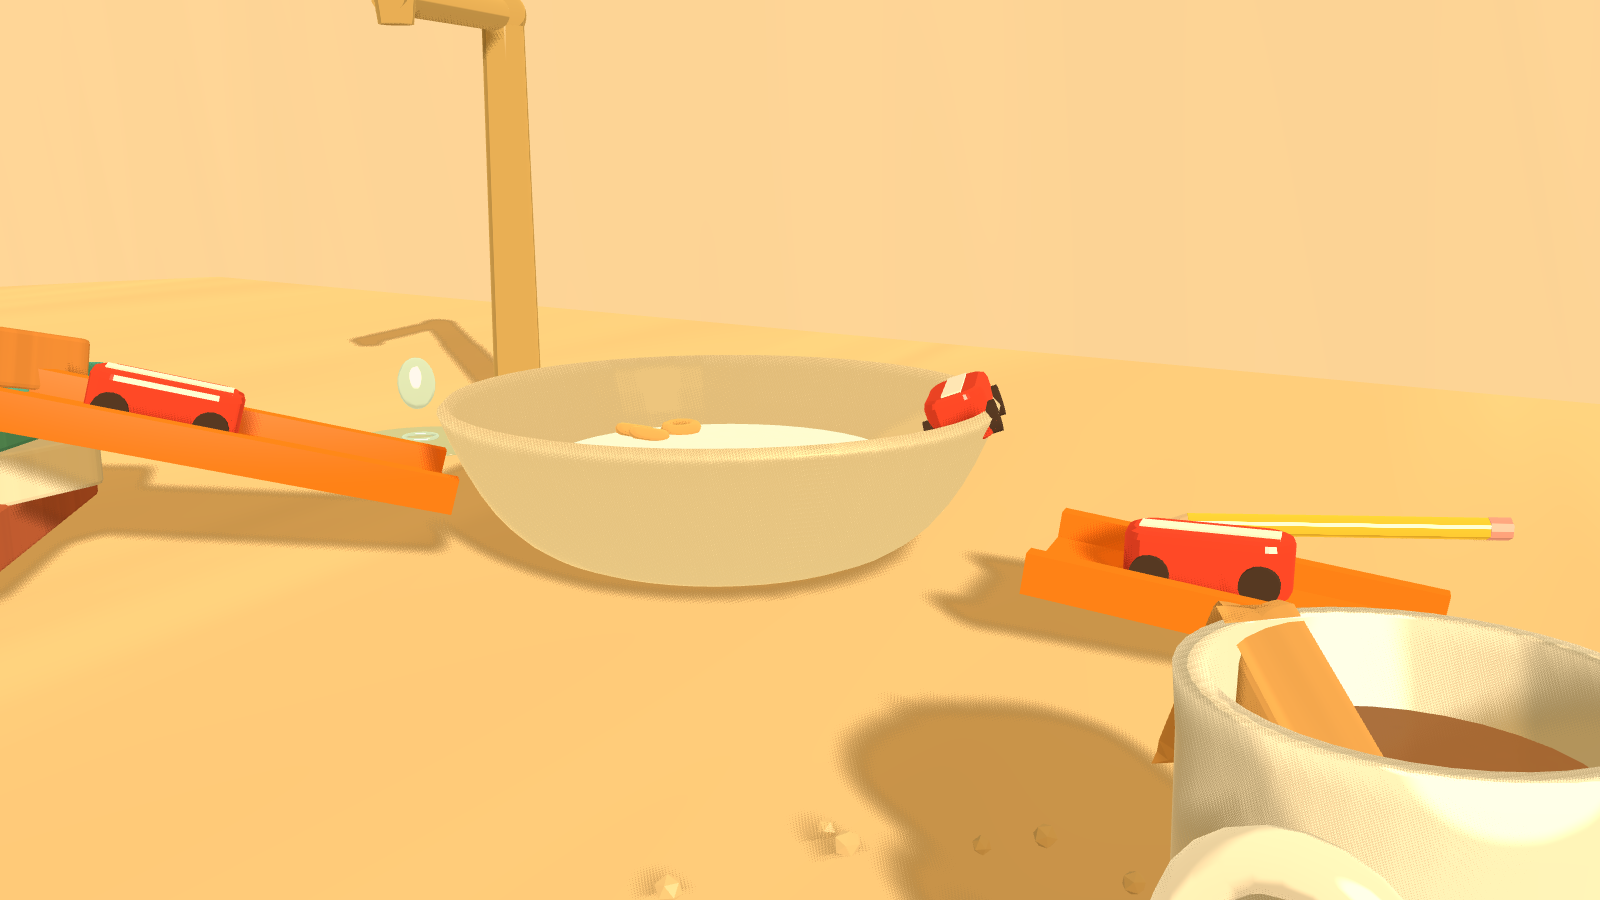
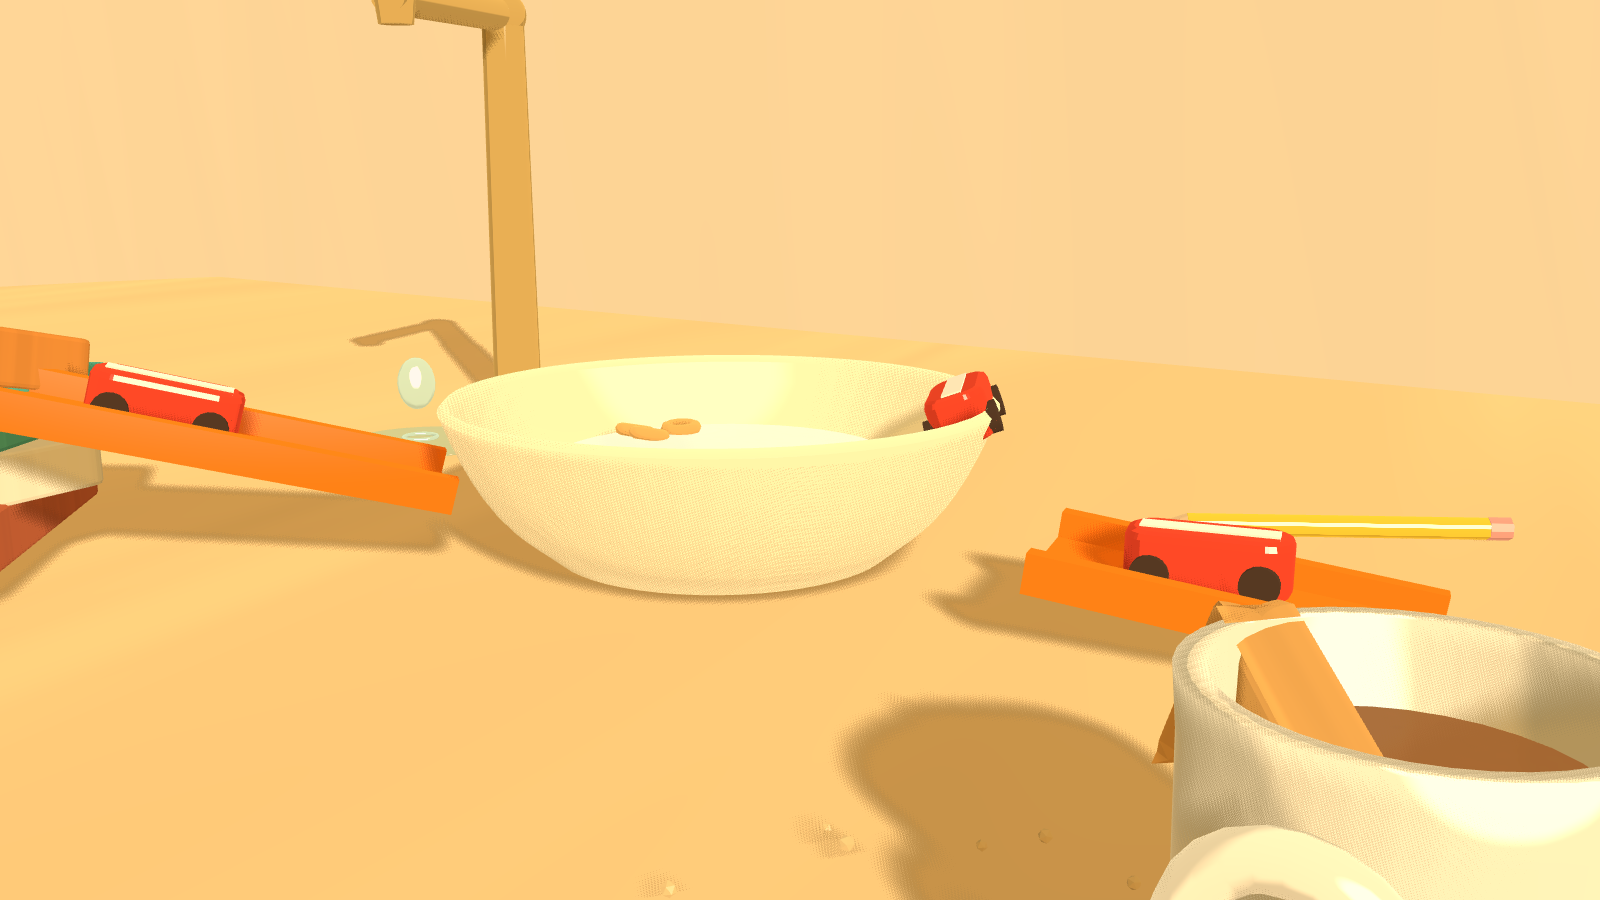
stage 1: environment artist B - grounded bowl, smaller crumbs, session note

Changed region(s): [[0.25, 0.3733, 0.625, 0.6844], [0.5, 0.9022, 0.5312, 0.9333]]

diff --git a/src/dev/scenes/kitchen-b.ts b/src/dev/scenes/kitchen-b.ts
@@ -7,7 +7,7 @@
 
 import * as THREE from 'three'
 import { ceramic, dieCastPaint, fabric, liquid, paintedWood, trackPlastic } from '../../render/materials.ts'
-import { bowlForm, toyBlock, trackChannel } from '../../render/geometry.ts'
+import { toyBlock, trackChannel } from '../../render/geometry.ts'
 import { GLOBAL_TOKENS, SET_TOKENS, darken, mixHex } from '../../render/tokens.ts'
 import { ToonMaterial } from '../../render/toon-material.ts'
 import { registerScene, type SceneEntry, type SceneFactory } from '../registry.ts'
@@ -266,7 +266,7 @@ function crumbs(): THREE.InstancedMesh {
     const r = 0.02 + rnd() * 0.075
     dummy.position.set(Math.cos(a) * r, 0.0022 + rnd() * 0.002, Math.sin(a) * r)
     dummy.rotation.set(rnd() * 3, rnd() * 3, rnd() * 3)
-    dummy.scale.setScalar(0.35 + rnd() * 0.5)
+    dummy.scale.setScalar(0.22 + rnd() * 0.3)
     dummy.updateMatrix()
     mesh.setMatrixAt(i, dummy.matrix)
   }
@@ -333,7 +333,25 @@ function kitchenScene(): SceneFactory {
       diffuseStrength: 1.15,
     })
     bowlMat.side = THREE.DoubleSide
-    const bowl = new THREE.Mesh(bowlForm(0.098, 0.054, 0.005), bowlMat)
+    // local bowl profile: the shared lathe's dome touches the floor only at
+    // its centre and reads as floating; add a flat foot ring at y = 0.001
+    const bowlPts: THREE.Vector2[] = [new THREE.Vector2(0.0001, 0.001), new THREE.Vector2(0.06, 0.001)]
+    {
+      const R = 0.098, H = 0.054, w = 0.005, n = 12
+      const footR = R * 0.26
+      for (let i = 5; i <= n; i++) {
+        const t = i / n
+        bowlPts.push(new THREE.Vector2(footR + (R - footR) * Math.sqrt(t), Math.max(H * t * (0.88 * t + 0.12), 0.001)))
+      }
+      bowlPts.push(new THREE.Vector2(R, H), new THREE.Vector2(R - w / 2, H + w / 2), new THREE.Vector2(R - w, H))
+      for (let i = n; i >= 0; i--) {
+        const t = i / n
+        bowlPts.push(new THREE.Vector2(Math.max((R - w) * Math.sqrt(t), 0.0001), H * 0.05 + (H - H * 0.05) * (0.85 * t * t + 0.15 * t)))
+      }
+    }
+    const bowlGeo = new THREE.LatheGeometry(bowlPts, 56)
+    bowlGeo.computeVertexNormals()
+    const bowl = new THREE.Mesh(bowlGeo, bowlMat)
     props(bowl)
     bowl.position.set(-0.035, 0, -0.045)
     vignette.add(bowl)

diff --git a/docs/vault/Sessions/2026-10-03 Stage 1 - kitchen tile B.md b/docs/vault/Sessions/2026-10-03 Stage 1 - kitchen tile B.md
@@ -1,0 +1,43 @@
+---
+tags: [session]
+livedocs: snapshot
+---
+# Stage 1 — kitchen tile B (Environment Artist B)
+
+## The story, in two sentences
+
+Sunday morning on the toy table: a kid built a track out of the good cereal bowl, three library books and the pencil that shims the ramp book — and parked a car mid-bank in the bowl's rim while the tap hangs, frozen, over its wet patch. Nobody is home; the toast is still in the mug, the milk is still in the bowl, and three cars are stopped wherever Sunday stopped them.
+
+## Palette, light, materials
+
+- **Palette** straight from `src/render/tokens.ts` kitchen tokens: gold dominant `#EFAF4B`, mint accent (one book cover, the folded cloth, the wet patch), orange track constant `#FF7A1A` as the reader's path books → bowl → mug.
+- **Light**: one low gold key (`GLOBAL_TOKENS.keyLight`, intensity 1.3) from camera-right, elevation ~28°, long shadows that fly left/back and climb the flat cream wall — the tap's L-shadow is a second drawing of the tap. The material fill is nudged ~30 % toward the mint accent so every shadow breathes cool-gold instead of grey; every `ToonMaterial` is told the key via `setKeyLight`, so dark bands tint toward gold.
+- **Materials** — exactly six of the seven classes, no new shaders: ceramic (bowl, mug), painted wood (counter, books, toast, pencil, floor), die-cast paint (brass tap, car bodies, pencil ferrule), track plastic (orange runs), fabric (cloth, tyres, cereal rings), liquid (milk, coffee, drip, wet patch, mug ring). Repeated props (crumbs, cereal rings) are `InstancedMesh`; the car factory is reused three times.
+- **Generators**: `toyBlock` and `trackChannel` from `src/render/geometry.ts`; the bowl is a local lathe (the shared `bowlForm` dome touches the floor at one point and read as floating — a flat foot ring at y ≈ 1 mm fixes grounding; also a local `trackRun(a, b)` places a channel along any segment by `lookAt`).
+
+## The one surprising detail
+
+The pencil. It is doing double duty: one end is the shim propping the ramp book — the kid's engineering — and its twin lies on the counter where the eye lands first. A toy track held up by school supplies is the whole premise in one object. (Runner-up detail: the tap's own shadow drawing the tap on the wall.)
+
+## Self-scored rubric (honest)
+
+| # | Line | Score | Why |
+|---|---|---|---|
+| 1 | Silhouette at 200 px | 2 | Bowl, book stack, track lines, mug-with-toast all read in the thumbnail establishing shot. |
+| 2 | Focal point | 2 | Hero lands on the bowl with the car on the bank; every rig points at it. |
+| 3 | Scale cues | 2 | Oversized tap and bowl, pencil, book spines, crumbs — four cues; no tilt-shift available in the harness. |
+| 4 | Color | 2 | Gold dominant, mint accent, orange constant; nothing fights (droplet is mint-adjacent — quiet). |
+| 5 | Light | 2 | One direction, long shadows that explain bowl, books and tap; the tap shadow doubles the form. |
+| 6 | Material | 1 | Every object is a named class, but the bowl interior still reads flat-ivory in hero rather than glazed, and the frozen drip is small. |
+| 7 | Story | 2 | Toast in the mug, mug ring, crumbs, pencil shim — someone lives here and played here. |
+| 8 | Nothing default | 2 | No stock look, shadows gold-tinted, flat wall (no gradient), no ambient mush. |
+| | **Total** | **13/16, no zero** | |
+
+## What I learned for the tile review
+
+The toon shader never flips normals on backfaces, so any DoubleSide lathe lights one side wrongly — sets that need bowl interiors should carry a grounded, front-side local profile (as done here) rather than the shared `bowlForm`. Worth a technical-artist ticket on a `flipNormals` option or a two-sided-aware shader.
+
+## Files
+
+- Scene: `src/dev/scenes/kitchen-b.ts` (registered as `kitchen-b`)
+- Renders: `docs/explorations/kitchen/establishing-b.png`, `hero-b.png`, `floor-b.png` (1600×900, DPR 1, fixed clock)
